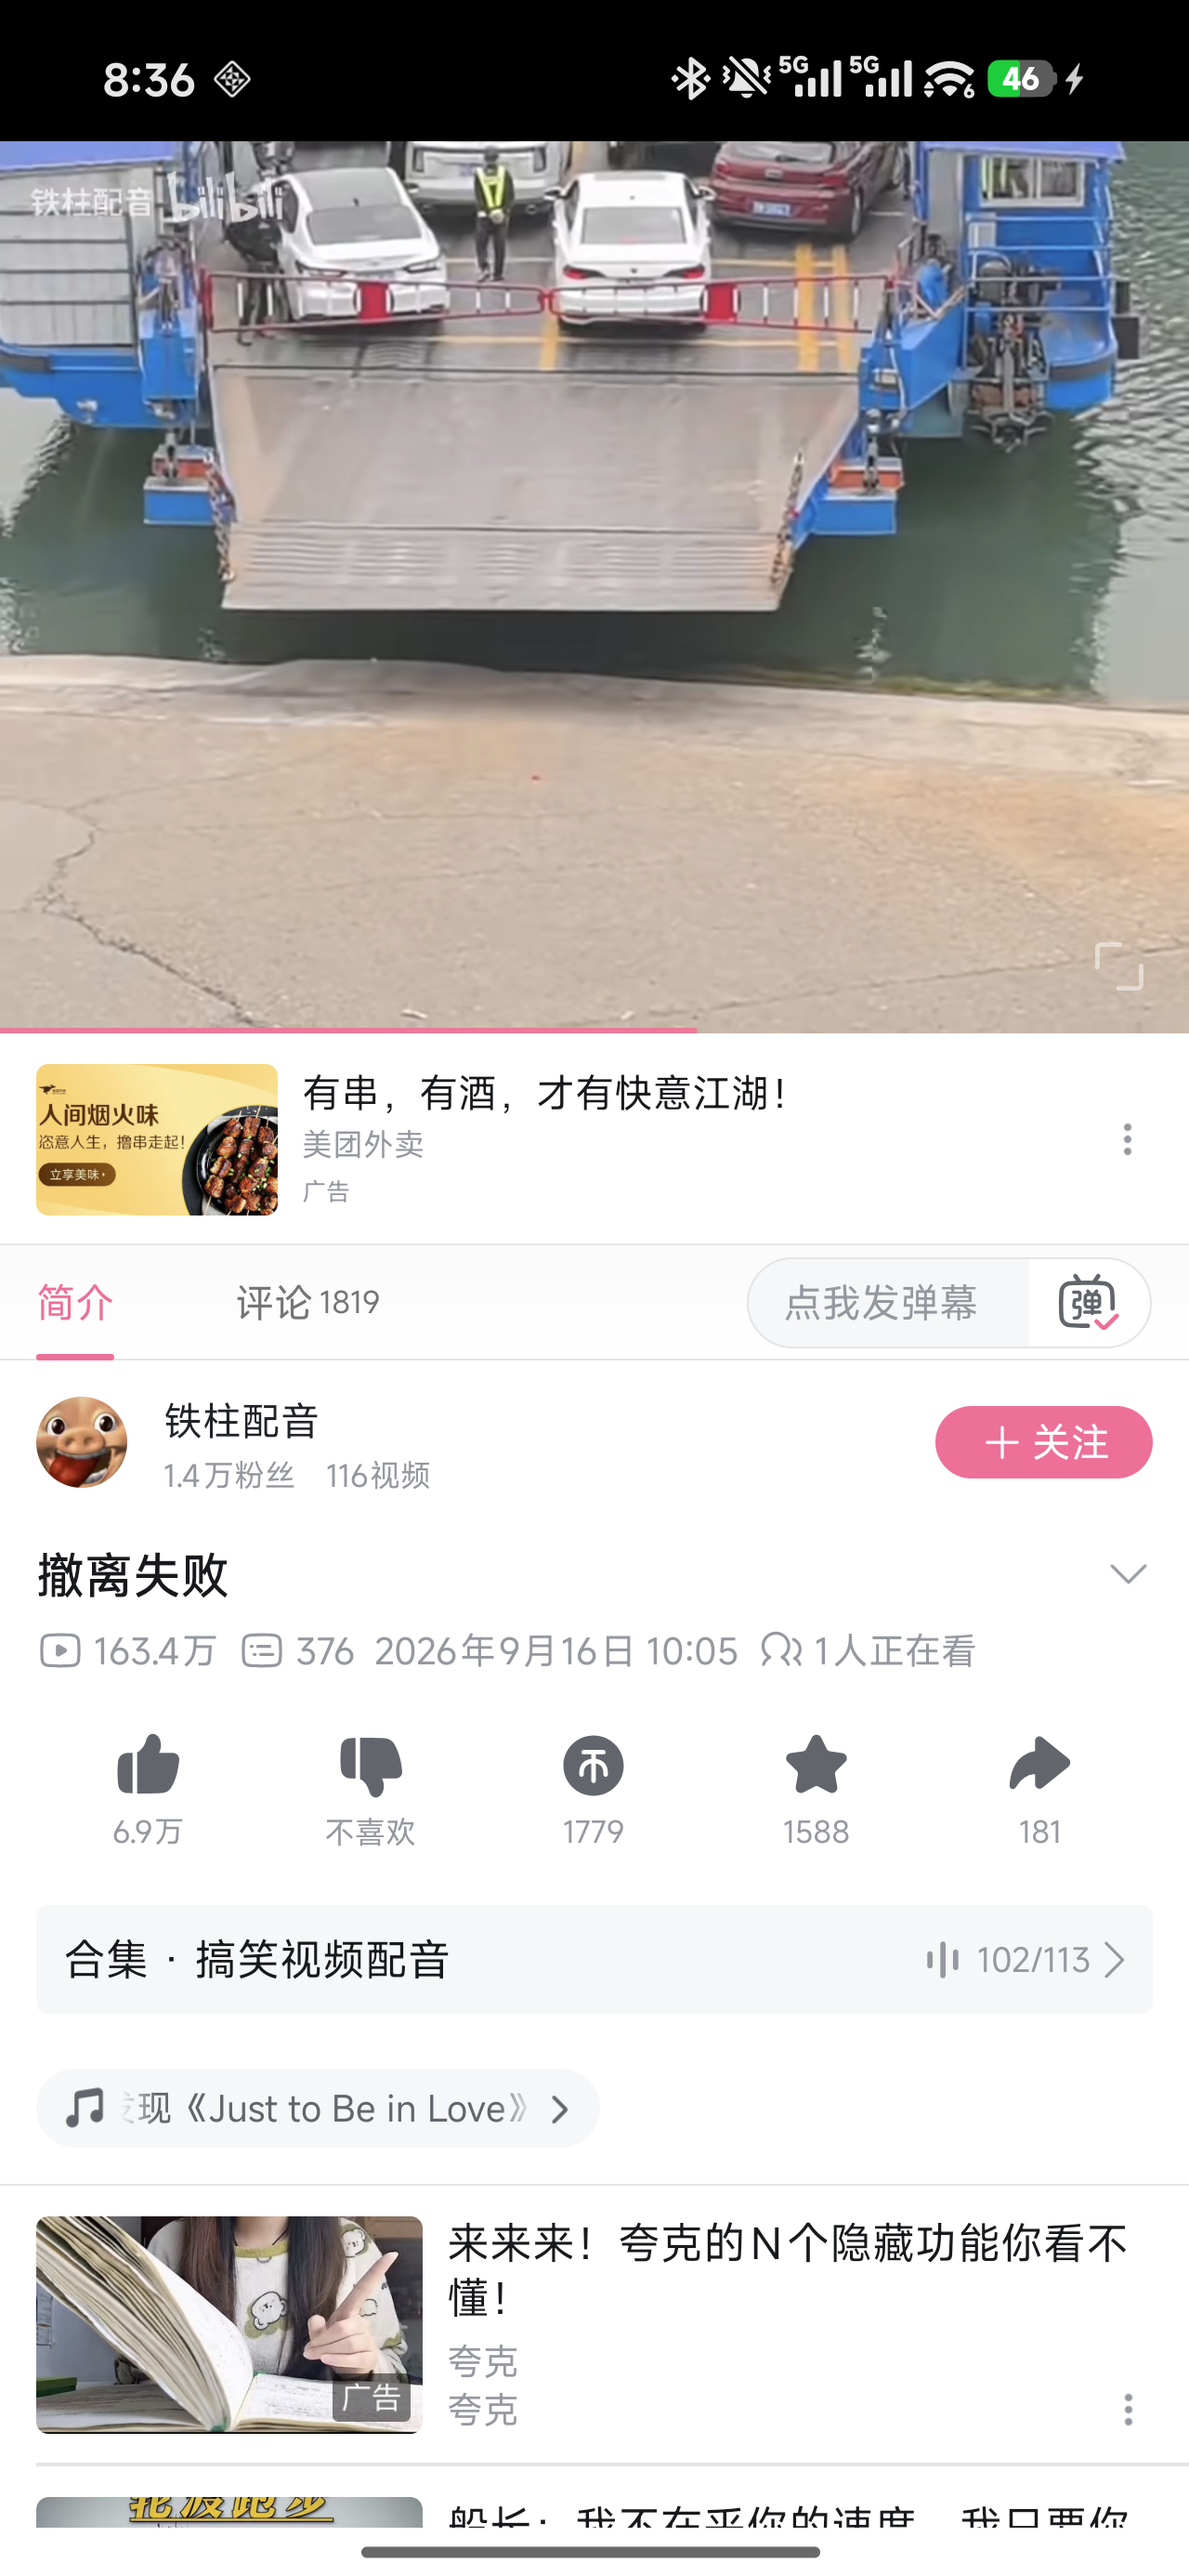
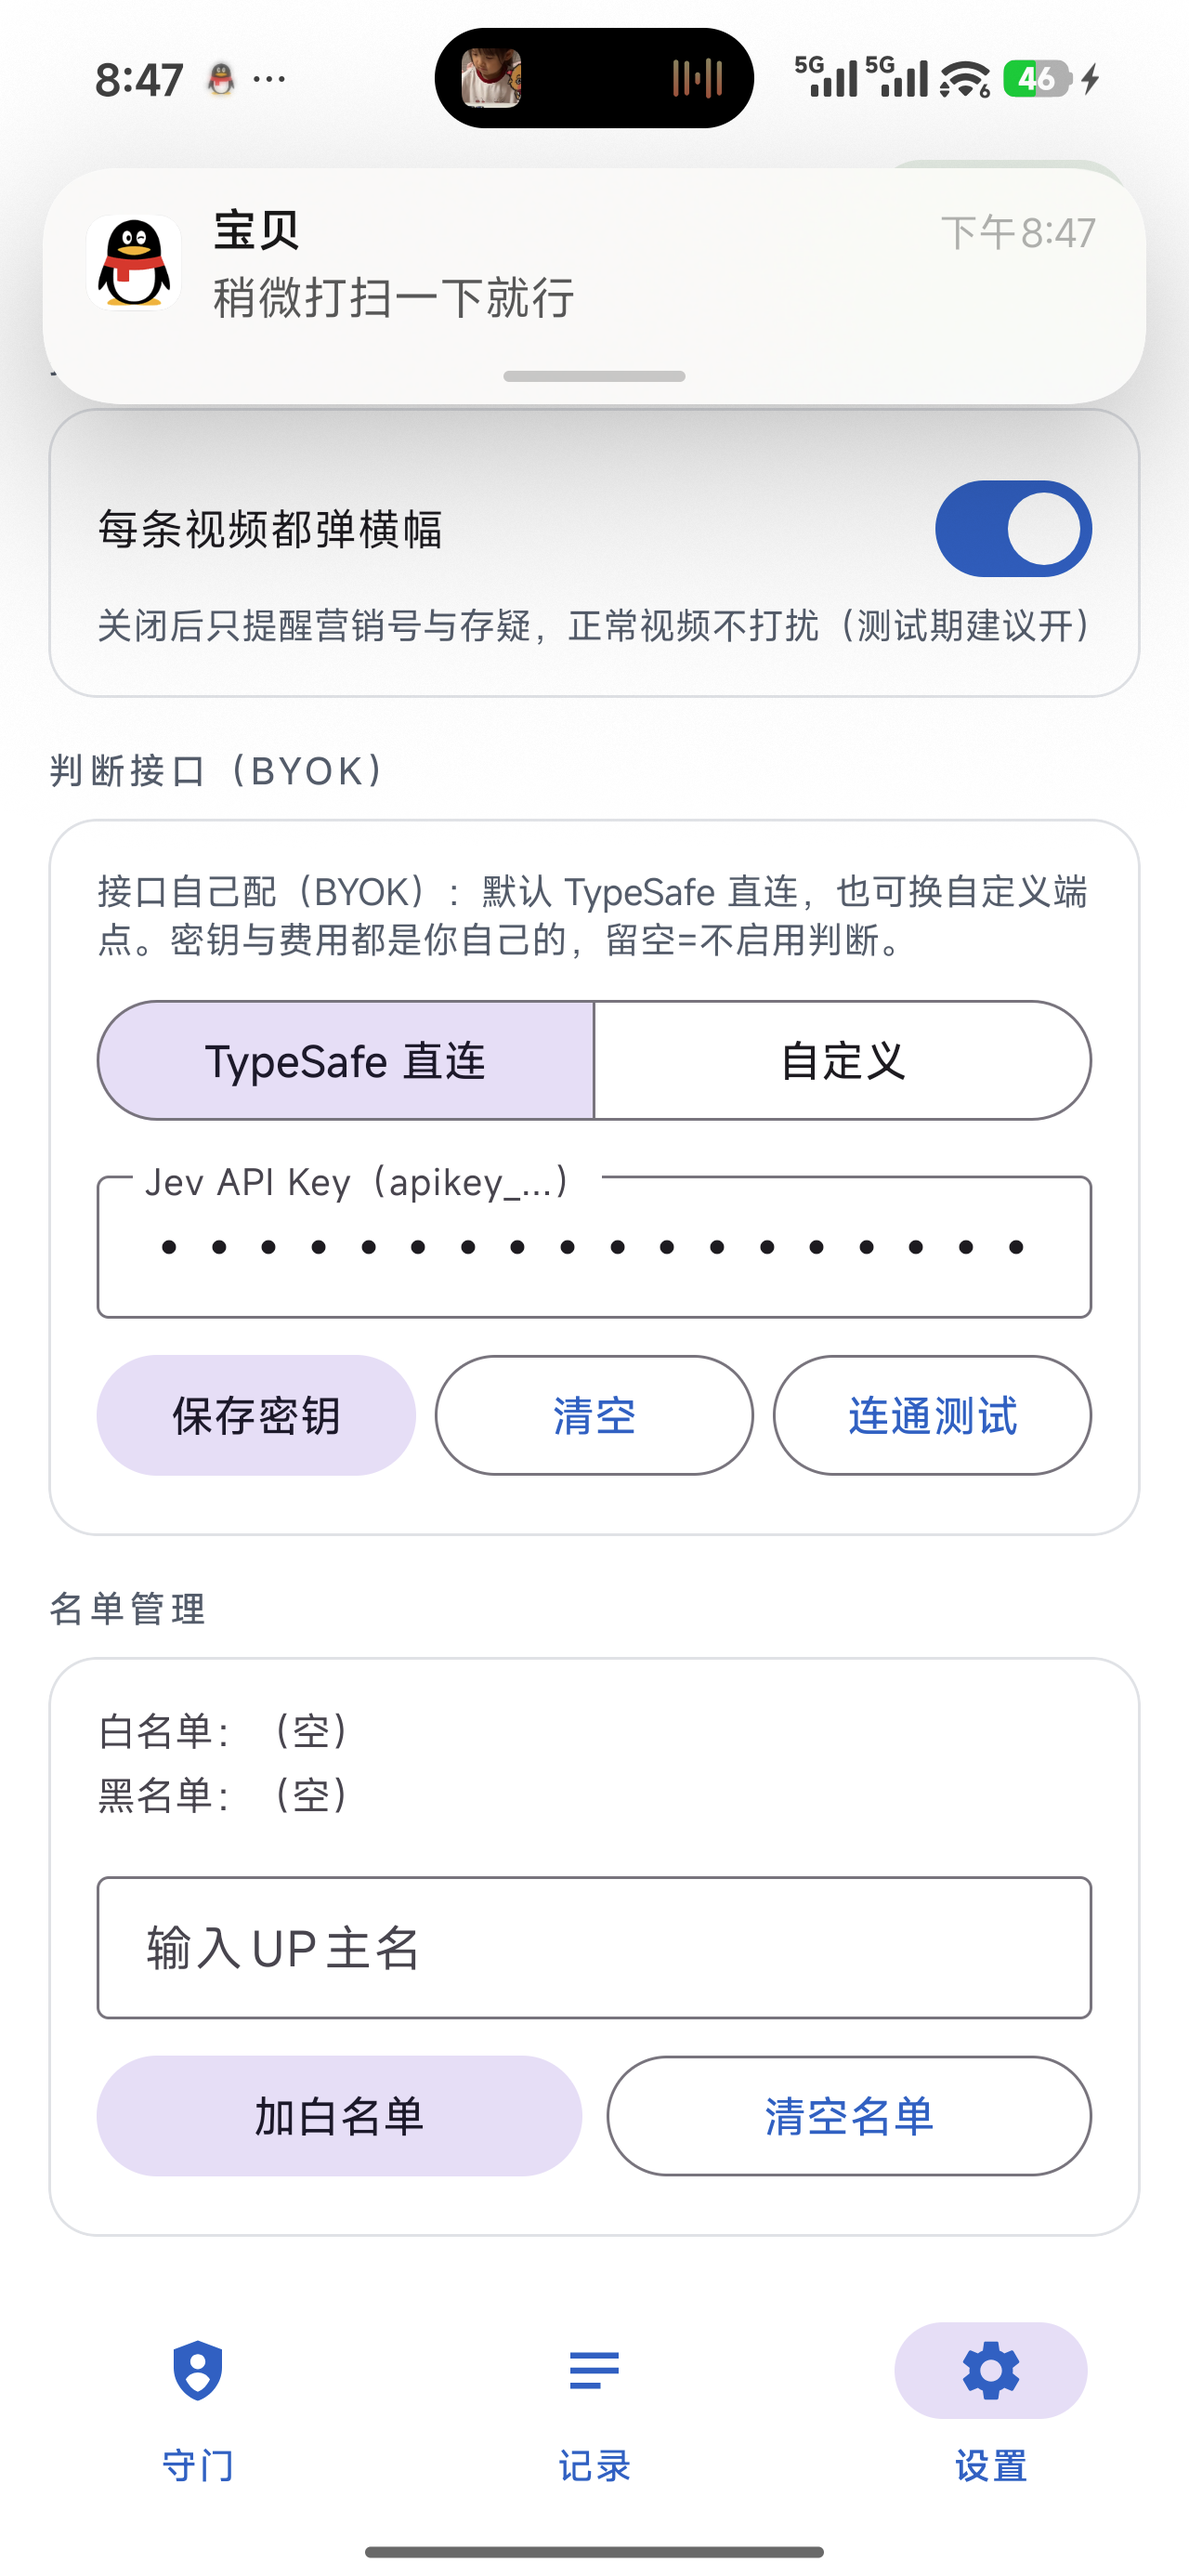
v0.10.2: 设置页产品化——BYOK双通道选择器(TypeSafe直连/自定义)、三开关并一、删运行自检卡
- 提醒偏好：干货提示/IP直连/Dump三开关 → 单开关「每条视频都弹横幅」（服务端真门槛，关闭后仅红黄提醒）
- IP直连并入自动回退：先系统DNS，失败IP直连，不再暴露开关
- 判断接口：MaterialButtonToggleGroup 双通道，自定义时显示 Base URL 输入
- 运行自检卡删除；复制诊断挪入关于卡（反馈流程保留）

diff --git a/app/src/main/java/com/biligate/app/MainActivity.kt b/app/src/main/java/com/biligate/app/MainActivity.kt
@@ -22,7 +22,6 @@ class MainActivity : AppCompatActivity() {
     private lateinit var stats: TextView
     private lateinit var whiteList: TextView
     private lateinit var blackList: TextView
-    private lateinit var diag: TextView
     private lateinit var etJevKey: TextInputEditText
     private lateinit var rowA11y: TextView
     private lateinit var rowConn: TextView
@@ -39,9 +38,8 @@ class MainActivity : AppCompatActivity() {
     private val diagRefresher = object : Runnable {
         override fun run() {
             refresh()   // v0.8.8 就绪清单每秒活刷——旧逻辑只在onResume刷一次，开着App等状态变化时清单是死的
-            refreshDiag()
             refreshHomeStats()
-            // v0.9.7 记录页=设计稿单条卡（v0.9.4文本流水退役）
+            // v0.9.7 记录页=设计稿单条卡（v0.9.4文本流水退役）；v0.10.2 运行自检卡已删（诊断只留"复制"）
             renderRecordsUI(DiagStore.load(this@MainActivity))
             diagHandler.postDelayed(this, 1000)
         }
@@ -84,7 +82,6 @@ class MainActivity : AppCompatActivity() {
         stats = findViewById(R.id.stats)
         whiteList = findViewById(R.id.whiteList)
         blackList = findViewById(R.id.blackList)
-        diag = findViewById(R.id.diag)
         etJevKey = findViewById(R.id.etJevKey)
         rowA11y = findViewById(R.id.rowA11y)
         rowConn = findViewById(R.id.rowConn)
@@ -159,14 +156,25 @@ class MainActivity : AppCompatActivity() {
             isChecked = Prefs.tipGenuine(this@MainActivity)
             setOnCheckedChangeListener { _, c -> Prefs.setTipGenuine(this@MainActivity, c) }
         }
-        findViewById<MaterialSwitch>(R.id.swDns).apply {
-            isChecked = Prefs.dnsDirect(this@MainActivity)
-            setOnCheckedChangeListener { _, c -> Prefs.setDnsDirect(this@MainActivity, c) }
+
+        // v0.10.2 BYOK双通道：TypeSafe直连 / 自定义端点（选择即时保存，Base URL随密钥一起保存）
+        val providerGroup = findViewById<com.google.android.material.button.MaterialButtonToggleGroup>(R.id.providerGroup)
+        val etApiBase = findViewById<TextInputEditText>(R.id.etApiBase)
+        val baseInput = findViewById<View>(R.id.baseInput)
+        fun renderProvider() {
+            val custom = Prefs.apiProvider(this) == "custom"
+            findViewById<MaterialButton>(R.id.btnProviderTypesafe).isChecked = !custom
+            findViewById<MaterialButton>(R.id.btnProviderCustom).isChecked = custom
+            baseInput.visibility = if (custom) View.VISIBLE else View.GONE
         }
-        findViewById<MaterialSwitch>(R.id.swDump).apply {
-            isChecked = Prefs.dumpDebug(this@MainActivity)
-            setOnCheckedChangeListener { _, c -> Prefs.setDumpDebug(this@MainActivity, c) }
+        providerGroup.addOnButtonCheckedListener { _, id, checked ->
+            if (checked) {
+                Prefs.setApiProvider(this, if (id == R.id.btnProviderCustom) "custom" else "typesafe")
+                renderProvider()
+            }
         }
+        etApiBase.setText(Prefs.customApiBase(this))
+        renderProvider()
 
         findViewById<MaterialButton>(R.id.btnAddWhite).setOnClickListener {
             val et = findViewById<TextInputEditText>(R.id.etUploader)
@@ -245,6 +253,8 @@ class MainActivity : AppCompatActivity() {
                 Toast.makeText(this, "已自动去除密钥里的异常字符", Toast.LENGTH_SHORT).show()
             }
             Prefs.setJevKey(this, k)
+            // v0.10.2 自定义端点随密钥一起保存
+            Prefs.setCustomApiBase(this, etApiBase.text?.toString()?.trim().orEmpty())
             sendBroadcast(android.content.Intent(GateKeeperService.KEY_ACTION)
                 .setPackage(packageName).putExtra("key", k))
             Toast.makeText(this, "密钥已保存", Toast.LENGTH_SHORT).show()
@@ -495,25 +505,6 @@ class MainActivity : AppCompatActivity() {
                 fill.layoutParams.width = (card.width * pct / 100).coerceAtLeast(20)
                 fill.requestLayout()
             }
-        }
-    }
-
-    private fun refreshDiag() {
-        val s = DiagStore.load(this)
-        val ago = { t: Long -> if (t == 0L) "从未" else "${(System.currentTimeMillis() - t) / 1000}秒前" }
-        val d = { k: String -> s.diag[k].orEmpty().ifBlank { "-" } }
-        val connected = s.connectedAt.ifBlank { "未连接过" }
-        diag.text = buildString {
-            append("⓪ 服务上线：$connected\n")
-            append("① 总事件：${s.totalEvents}（${ago(s.totalLastAt)}）")
-            append("｜B站：${s.eventCount}（${ago(s.lastEventAt)}）\n")
-            append("② 窗口节点：${d("root_info")}\n")
-            append("③ 文本：${d("texts_count")} 条\n")
-            append("④ 标题：${d("last_title")}\n")
-            append("ⓐ 快照脚印：${d("step_hist")}\n")
-            append("⑤ 判定：${d("last_judge")}\n")
-            s.diag["last_jev_err"].orEmpty().let { if (it.isNotEmpty()) append("⚠ Jev错误：$it\n") }
-            append("—— 文本样本 ——\n${d("texts_sample")}")
         }
     }
 

diff --git a/app/src/main/java/com/biligate/app/JevClient.kt b/app/src/main/java/com/biligate/app/JevClient.kt
@@ -42,6 +42,11 @@ object JevClient {
 
     private const val API_URL = "https://api.typesafe.ai/v1/systemone"
 
+    /** v0.10.2 BYOK：自定义端点优先（用户自填），否则TypeSafe直连 */
+    private fun apiUrl(ctx: android.content.Context): String =
+        Prefs.customApiBase(ctx).takeIf { Prefs.apiProvider(ctx) == "custom" && it.isNotBlank() }
+            ?.trimEnd('/') ?: API_URL
+
     private fun client(dnsDirect: Boolean): OkHttpClient {
         val b = OkHttpClient.Builder()
             .connectTimeout(4, TimeUnit.SECONDS)
@@ -115,11 +120,12 @@ object JevClient {
             // "Unexpected char in Authorization value"闪退——只留ASCII，双进程全覆盖
             val key = (keyOverride ?: Prefs.jevKey(ctx)).filter { it.code < 128 }.trim()
             val req = Request.Builder()
-                .url(API_URL)
+                .url(apiUrl(ctx))
                 .header("Authorization", "Bearer $key")
                 .post(body.toString().toRequestBody("application/json; charset=utf-8".toMediaType()))
                 .build()
-            val attempts = if (Prefs.dnsDirect(ctx)) listOf(true, false) else listOf(false)
+            // v0.10.2 DNS自动回退：先系统解析，失败走IP直连（原"IP直连开关"并入自动）
+            val attempts = listOf(false, true)
             var lastErr = "无尝试"
             for (direct in attempts) {
                 try {

diff --git a/app/src/main/java/com/biligate/app/Prefs.kt b/app/src/main/java/com/biligate/app/Prefs.kt
@@ -38,6 +38,12 @@ object Prefs {
     /** v0.7.0：BYOK——用户自填密钥（留空=回退内置调试密钥） */
     fun setJevKey(ctx: Context, v: String) = sp(ctx).edit().putString("jev_key", v).apply()
 
+    /** v0.10.2 BYOK双通道：typesafe直连 / 自定义端点 */
+    fun apiProvider(ctx: Context) = sp(ctx).getString("api_provider", "typesafe") ?: "typesafe"
+    fun setApiProvider(ctx: Context, v: String) = sp(ctx).edit().putString("api_provider", v).apply()
+    fun customApiBase(ctx: Context): String = sp(ctx).getString("api_base", "") ?: ""
+    fun setCustomApiBase(ctx: Context, v: String) = sp(ctx).edit().putString("api_base", v).apply()
+
     fun statsSkipped(ctx: Context): Int = sp(ctx).getInt("stats_skipped", 0)
 
     /** 服务存活标志：onServiceConnected 写 true，onDestroy/onUnbind 写 false */
@@ -56,7 +62,7 @@ object Prefs {
     fun incBlocked(ctx: Context) = sp(ctx).edit().putInt("stats_blocked", statsBlocked(ctx) + 1).apply()
 
     /** 干货视频是否也弹提示（默认关——每条都弹太吵） */
-    fun tipGenuine(ctx: Context) = sp(ctx).getBoolean("tip_genuine", false)
+    fun tipGenuine(ctx: Context) = sp(ctx).getBoolean("tip_genuine", true)
     fun setTipGenuine(ctx: Context, v: Boolean) = sp(ctx).edit().putBoolean("tip_genuine", v).apply()
 
     fun resetStatsIfNewDay(ctx: Context) {

diff --git a/app/src/main/java/com/biligate/app/GateKeeperService.kt b/app/src/main/java/com/biligate/app/GateKeeperService.kt
@@ -464,8 +464,9 @@ class GateKeeperService : AccessibilityService() {
             j.isBorderline -> OverlayBanner.showSuspect(this,
                 "存疑 · $zh · 味${"%.1f".format(j.mktgLevel)} · 信${"%.2f".format(j.confidence)} · 证据不足仅提示", 2400)
             else -> {
-                // v0.7.2 横幅只回答一个问题"是不是营销号"：正常统一绿"正常"，干货/标题党等分类留在记录行
-                OverlayBanner.showGenuine(this, "正常 营销味${"%.1f".format(j.mktgLevel)} 信${"%.2f".format(j.confidence)}", 1800)
+                // v0.10.2 正常视频横幅受"每条都弹"门槛（测试期默认开；关闭后正常视频不打扰，判定仍进记录）
+                if (Prefs.tipGenuine(this))
+                    OverlayBanner.showGenuine(this, "正常 营销味${"%.1f".format(j.mktgLevel)} 信${"%.2f".format(j.confidence)}", 1800)
             }
         }
     }
